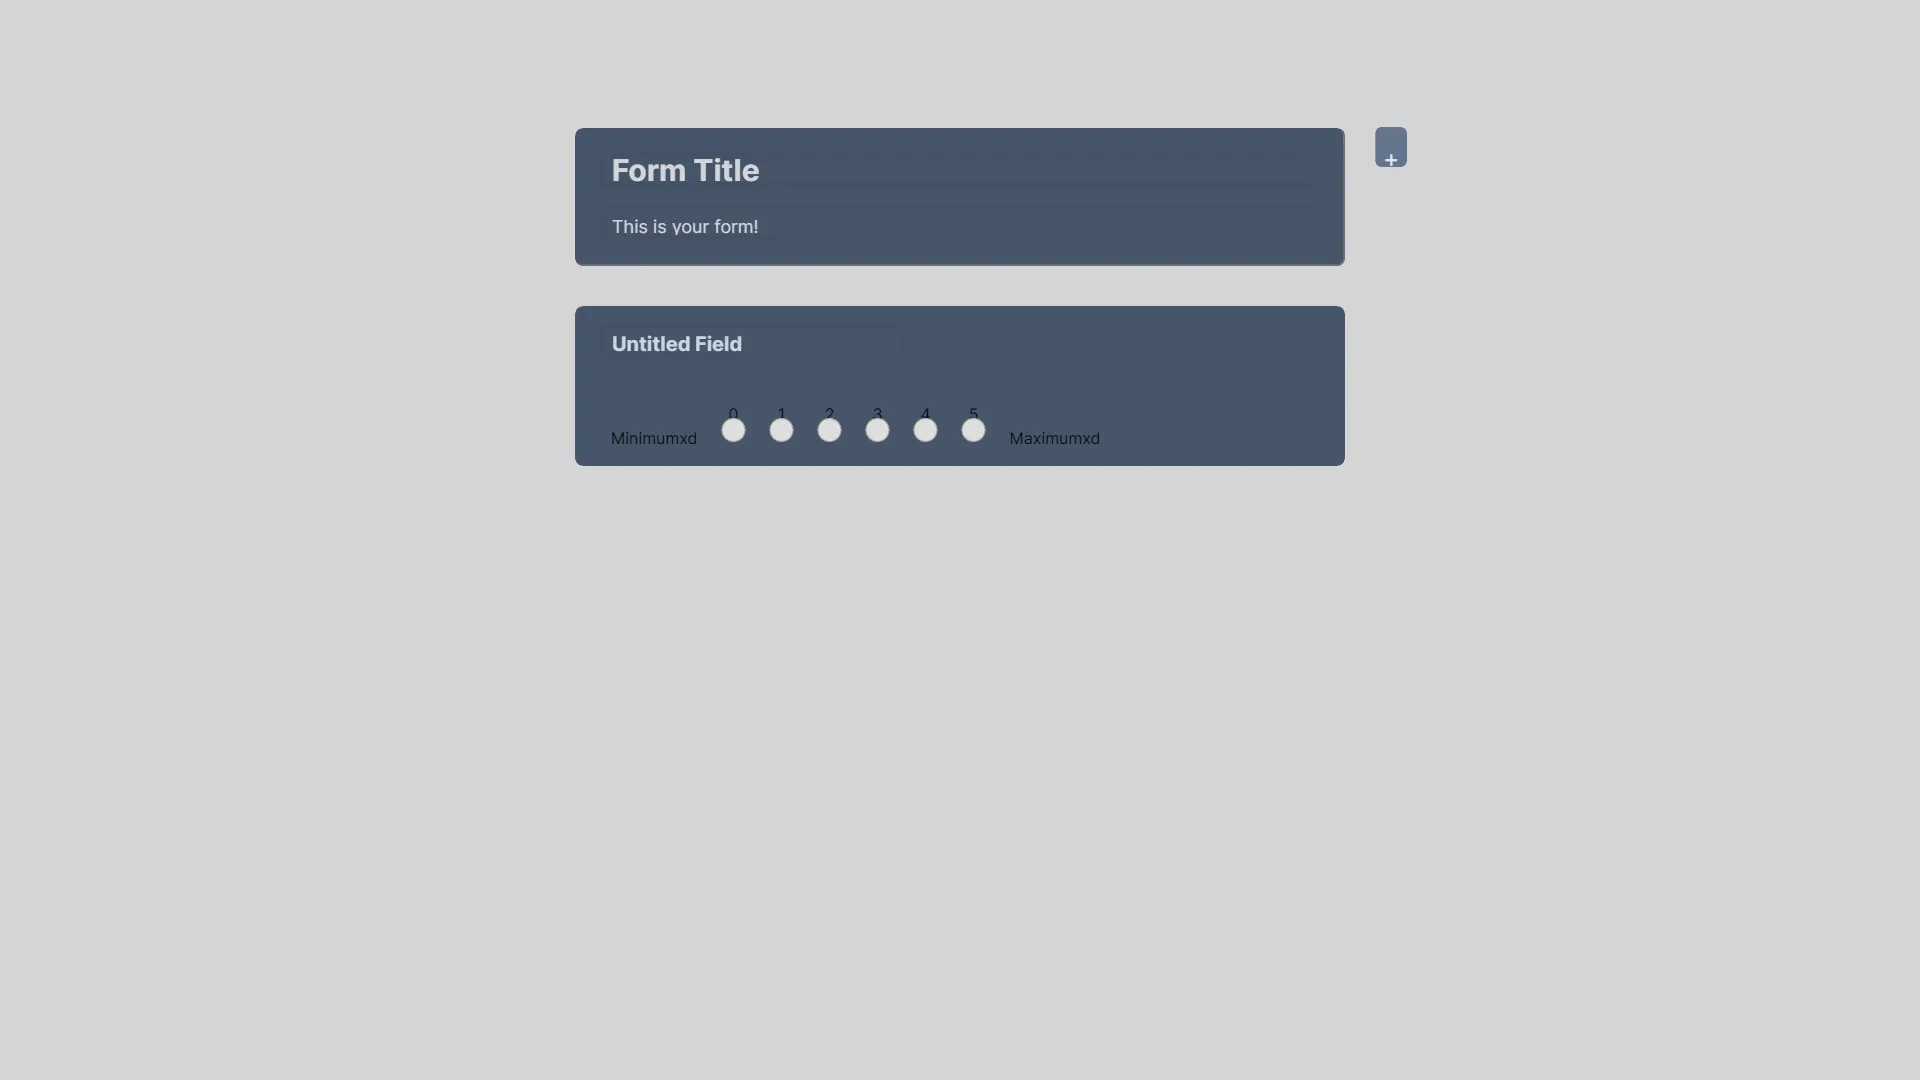
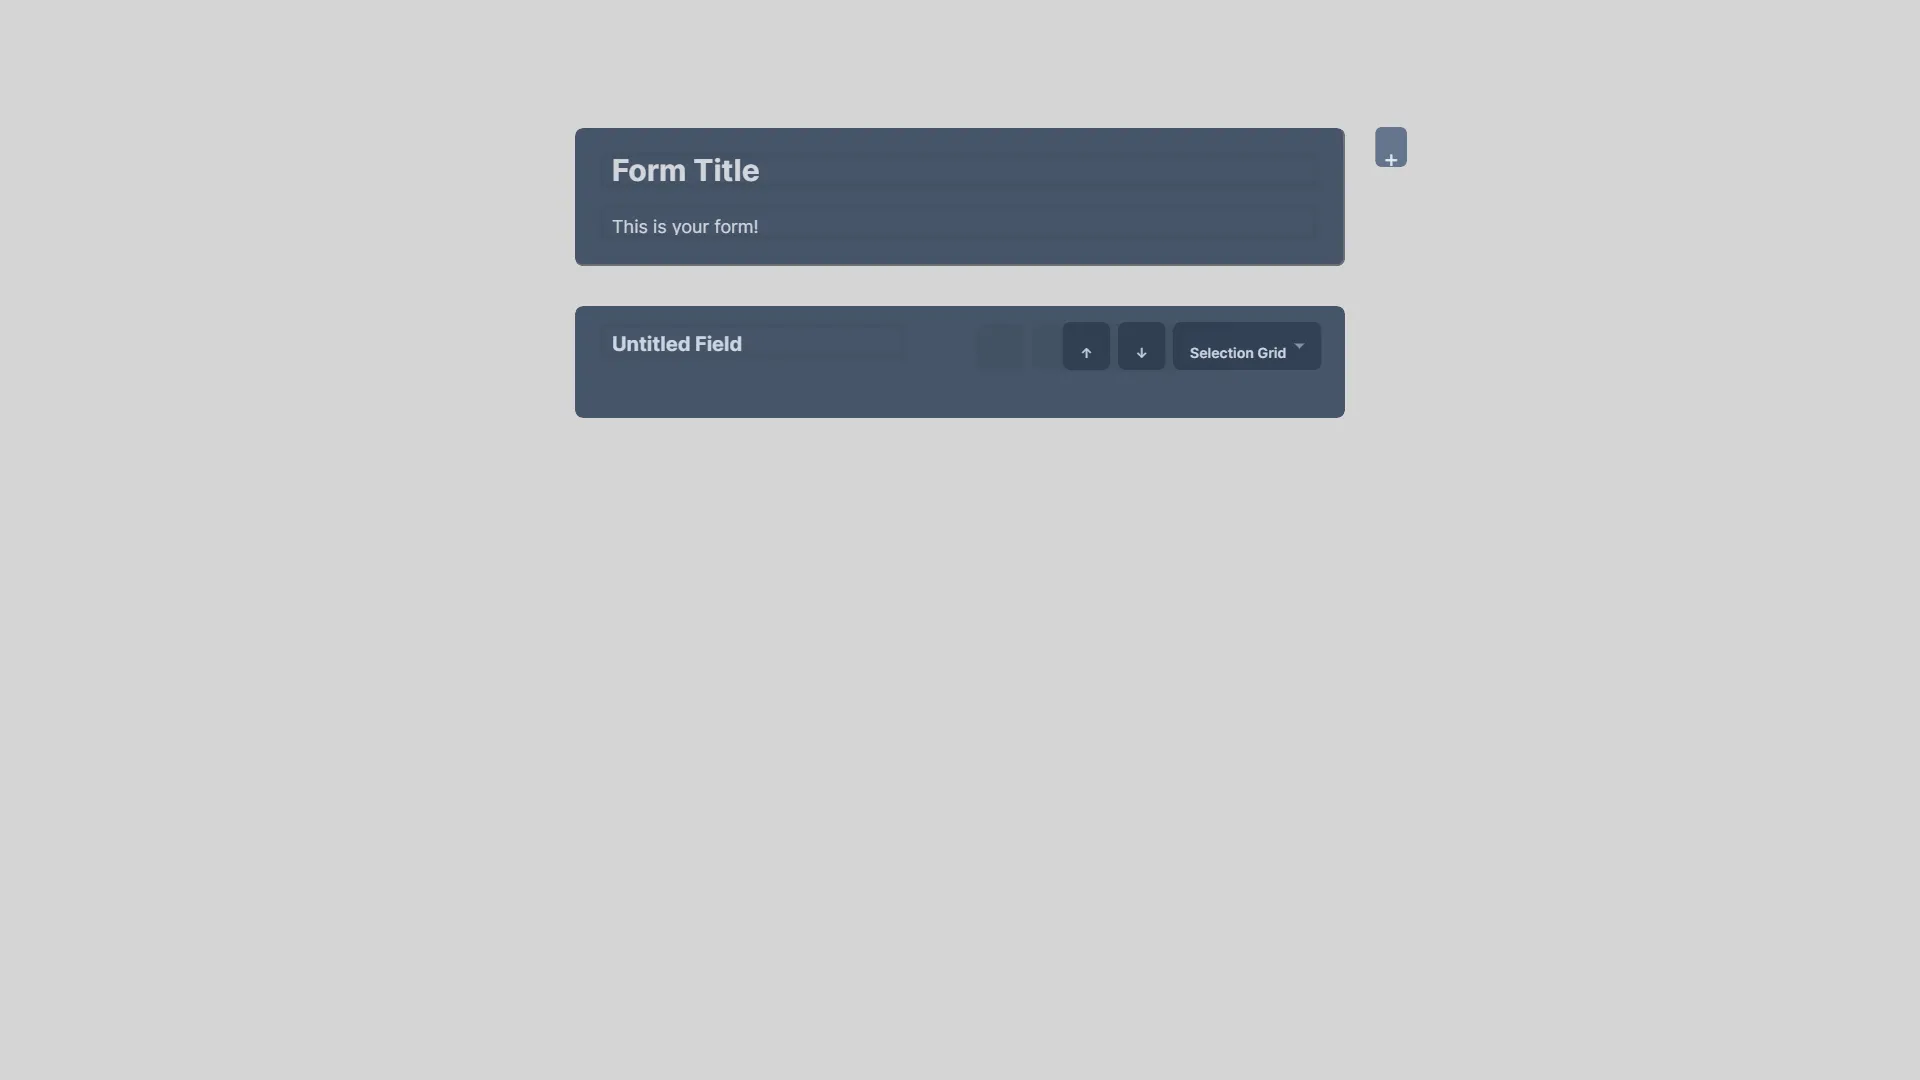
SelectionGrid basics

Changed region(s): [[0.2812, 0.3667, 0.7188, 0.4583], [0.5938, 0.3056, 0.6875, 0.3361]]

diff --git a/src/components/formAdmin/answerFields/SelectionGrid.tsx b/src/components/formAdmin/answerFields/SelectionGrid.tsx
@@ -1,3 +1,6 @@
+import { Input } from "@/components/ui/input";
+import { useState } from "react";
+
 export const SelectionGrid = ({
   field,
   formid,
@@ -7,5 +10,86 @@ export const SelectionGrid = ({
   formid: string;
   selected: boolean;
 }) => {
-  return <div className="px-3"></div>;
+  const [rowAnswers, setRowAnswers] = useState<any[]>(
+    (field.Answers as [])
+      .filter((f: any) => f.answerType === 6)
+      .toSorted((a: any, b: any) => {
+        if ((a as any).answerPos < (b as any).answerPos) {
+          return -1;
+        }
+        if ((a as any).answerPos > (b as any).answerPos) {
+          return 1;
+        }
+        return 0;
+      })
+  );
+  const [columnAnswers, setColumnAnswers] = useState<any[]>(
+    (field.Answers as [])
+      .filter((f: any) => f.answerType === 5)
+      .toSorted((a: any, b: any) => {
+        if ((a as any).answerPos < (b as any).answerPos) {
+          return -1;
+        }
+        if ((a as any).answerPos > (b as any).answerPos) {
+          return 1;
+        }
+        return 0;
+      })
+  );
+  return (
+    <div className="px-3">
+      {selected ? (
+        <div>test</div>
+      ) : (
+        <>
+          <div className="flex flex-row ml-32">
+            {rowAnswers.map((answer: any, index) => (
+              <Input
+                className="text-md text-gray-300 border-transparent ml-4 text-ellipsis w-36 text-center"
+                type="text"
+                key={index}
+                value={rowAnswers[index].answerName}
+                onBlur={() => {}}
+                spellCheck={false}
+              />
+            ))}
+          </div>
+          <div className="flex flex-row mt-8">
+            <div className="flex flex-col w-36">
+              {columnAnswers.map((answer: any, index) => (
+                <Input
+                  className="text-md text-gray-300 border-transparent ml-4 text-ellipsis w-36 text-center"
+                  type="text"
+                  key={index}
+                  value={columnAnswers[index].answerName}
+                  onBlur={() => {}}
+                  spellCheck={false}
+                />
+              ))}
+            </div>
+            {columnAnswers.map((answer: any, index) => (
+              <div
+                className="flex flex-row w-36 justify-center align-middle"
+                key={index}
+              >
+                {rowAnswers.map((answer: any, index) => (
+                  <input
+                    key={index}
+                    type="radio"
+                    name="radio-1"
+                    className="radio cursor-default text-gray-300"
+                    style={{
+                      borderColor: "rgb(209 213 219 / var(--tw-text-opacity))",
+                    }}
+                    checked={false}
+                    onChange={() => {}}
+                  />
+                ))}
+              </div>
+            ))}
+          </div>
+        </>
+      )}
+    </div>
+  );
 };

diff --git a/src/components/formAdmin/answerFields/OneAnswer.tsx b/src/components/formAdmin/answerFields/OneAnswer.tsx
@@ -47,6 +47,9 @@ export const RadioButtons = ({
                   type="radio"
                   name="radio-1"
                   className="radio cursor-default"
+                  style={{
+                    borderColor: "rgb(209 213 219 / var(--tw-text-opacity))",
+                  }}
                   checked={false}
                   onChange={() => {}}
                 />
@@ -142,6 +145,9 @@ export const RadioButtons = ({
           type="radio"
           name="radio-1"
           className="radio"
+          style={{
+            borderColor: "rgb(209 213 219 / var(--tw-text-opacity))",
+          }}
           checked={false}
           onChange={() => {}}
         />

diff --git a/src/components/formAdmin/answerFields/CheckboxAnswer.tsx b/src/components/formAdmin/answerFields/CheckboxAnswer.tsx
@@ -47,6 +47,9 @@ export const CheckboxAnswer = ({
                   type="checkbox"
                   className="checkbox cursor-default"
                   checked={false}
+                  style={{
+                    borderColor: "rgb(209 213 219 / var(--tw-text-opacity))",
+                  }}
                   onChange={() => {}}
                 />
               </label>
@@ -140,6 +143,9 @@ export const CheckboxAnswer = ({
         <input
           type="checkbox"
           className="checkbox"
+          style={{
+            borderColor: "rgb(209 213 219 / var(--tw-text-opacity))",
+          }}
           checked={false}
           onChange={() => {}}
         />

diff --git a/actions/createForm.ts b/actions/createForm.ts
@@ -45,6 +45,16 @@ export const createFormServer = async (id: string) => {
                   answerType: 4,
                   answerPos: 0,
                 },
+                {
+                  answerName: "First Collumn",
+                  answerType: 5,
+                  answerPos: 0,
+                },
+                {
+                  answerName: "First Row",
+                  answerType: 6,
+                  answerPos: 0,
+                },
               ],
             },
           },

diff --git a/src/components/formAdmin/answerFields/linealScale.tsx b/src/components/formAdmin/answerFields/linealScale.tsx
@@ -193,6 +193,9 @@ export const LinealScale = ({
                   type="radio"
                   name="radio-1"
                   className="radio cursor-default"
+                  style={{
+                    borderColor: "rgb(209 213 219 / var(--tw-text-opacity))",
+                  }}
                   checked={false}
                   onChange={() => {}}
                 />
